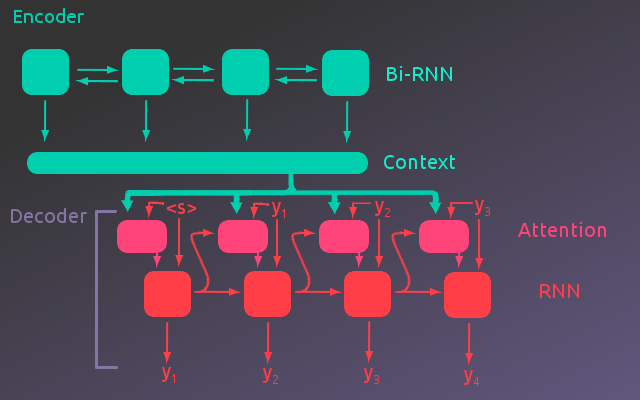
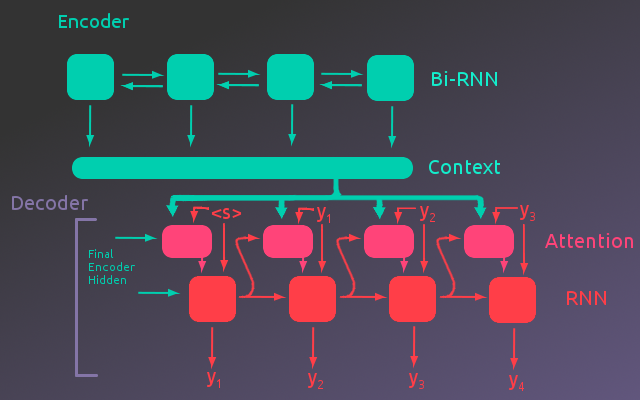
Added first draft of translation post

diff --git a/neural-translation-model.html b/neural-translation-model.html
@@ -38,7 +38,7 @@
     <a href="https://macbrennan90.github.io/category/projects.html" class="category">Projects</a><br />
 
     <a class="author" href="https://macbrennan90.github.io/author/mac-brennan.html">Mac Brennan</a>
-    &mdash; <abbr title="2018-04-25T00:00:00-05:00">Wed 25 April 2018</abbr>
+    &mdash; <abbr title="2018-06-11T00:00:00-05:00">Mon 11 June 2018</abbr>
 </div>        </div>
     </div>
 
@@ -56,11 +56,163 @@
     </div>
 
     <div class="entry-content">
-        <p>The goal of this project is to create a neural translation model that translates
-text from French to English. The model will be an encoder-decoder network with
-attention, using pre-trained word&nbsp;embeddings.</p>
-<p>This project is currently in progress, updates will be added as I go. If you are
-interested in seeing the current code, please check out the projects <a href="https://github.com/macbrennan90/translation-model" target="_blank">github repository</a>.</p>
+        <h2>Overview</h2>
+<p>In this post, I walk through how to build and train an neural translation model to translate French to English. This post will focus on the conceptual explanation, while a detailed walk through of the project code can be found in the associated Jupyter notebook. This notebook can be viewed <a href="https://nbviewer.jupyter.org/github/macbrennan90/translation-model/blob/master/translation-model.ipynb" target="_blank">here</a> or cloned from the project Github repository, <a href="https://github.com/macbrennan90/translation-model" target="_blank">here</a>. This post will be divided into two parts:
+<ol>
+    <li>A Conceptual Understanding of the&nbsp;Model</li>
+    <li>A Brief Summary of How the Model&nbsp;Performed</li>
+</ol></p>
+<p>This project closely follows the <a href="https://pytorch.org/tutorials/intermediate/seq2seq_translation_tutorial.html">PyTorch Sequence to Sequence tutorial</a>, while attempting to go more in depth with both the model implementation and the explanation. Thanks to <a href="https://github.com/spro/practical-pytorch">Sean Robertson</a> and <a href="https://pytorch.org/tutorials/">PyTorch</a> for providing such great&nbsp;tutorials.</p>
+<h2>Understanding the&nbsp;Model</h2>
+<p>We are trying to build a translation model. One model that has been successful in this task is an Encoder-Decoder network.
+At a high level, this model takes in a sequence and encodes the information of that sequence into an intermediate representation. This intermediate representation is decoded by the decoder into whatever target language the model has been trained for. In the case of this project, the input sequences are French sentences and the model has been trained to output the English translation of those&nbsp;sentences.</p>
+<p>Before we dive into the details of how the encoder and decoder work, we need to have an understanding of how our data will be represented to the model.
+Without knowing anything about how the model works, we can make the reasonable assumption that if we give the model a sentence in French, it should be able to provide us with the equivalent English sentence.
+So inputing one sequence of words should output another sequence of words. However, the model is just a collection of parameters that perform various computations on the input. The model does not know what words are.
+Similar to how letters have a <span class="caps">ASCII</span> mapping to numbers, our words need to be represented numerically. To do this, each unique word in the dataset needs a unique index. Rather than a sequence of words, the model will be given a sequence of&nbsp;indices.</p>
+<p>This works great for one sentence, but how can we pass the model multiple sentences to speed up the training process? Sentences are not all the same length. Additionally, how will these sequences of numbers be organized for the model? The answer is that the input sequences will be represented as a 2D tensor(matrix) with dimensions (batch size x max sequence length). This allows us to input a batch of sentences and sentences that have a length less than the longest sentence in the dataset can be padded using a pre-determined &#8220;padding index&#8221;. This is illustrated in the following&nbsp;figure.</p>
+<p style='text-align: center !important;'>
+<img src='https://github.com/macbrennan90/macbrennan90.github.io/blob/master/images/tm-input-tensor.png?raw=true'
+     alt='Input Tensor'>
+</p>
+
+<h3>Encoder</h3>
+<h4>Word&nbsp;Embeddings</h4>
+<p>The input tensor allows us to input several sentences to the model as a sequence of indices. This is a step in the right direction, but these indices don&#8217;t hold any information. They are just place holders that represent the words. The word represented by the index 54, is not necessarily related to the word represented by the index 55. It wouldn&#8217;t make sense to use these index numbers in a calculation. These indices need to be represented in some other format that allows the model to compute something&nbsp;meaningful.</p>
+<p>One way to do this is to &#8220;one hot encode&#8221; the words, meaning each word is represented by a vector of zeros except for a one at the index associated with the word. Each index in this vector would be associated with a unique word in the vocab. This would work, but it still lacks any sort of information about how words are related. A better way to represent words is to use word&nbsp;embeddings.</p>
+<p>Word embeddings represent each word as an N-dimensional vector. In this way, similar words would have similar word embeddings and would be located near each other in the N-dimensional space.
+To determine good values for the word embeddings a model is usually trained on some language task and the word embeddings are learned. Luckily, this has already been done by other researcher and those word embeddings have been made available. In this project, the 300-dimensional word embeddings from FastText are&nbsp;used.</p>
+<p>The indices can now be replaced by the word embeddings associated with each word. This step is included into the Encoder&#8217;s calculation giving a third dimension to the input tensor representing the word embeddings. An illustration of this embedded tensor is shown in the following&nbsp;figure.</p>
+<p style='text-align: center !important;'>
+<img src='https://github.com/macbrennan90/macbrennan90.github.io/blob/master/images/embedded-tensor.png?raw=true'
+     alt='Embedded Input Tensor'>
+</p>
+
+<h4>Encoder&nbsp;Architecture</h4>
+<p>As mentioned above, the embedding step is rolled into the Encoder calculation. This is done through an embedding layer. The following figure shows the full Encoder&nbsp;architecture.</p>
+<p style='text-align: center !important;'>
+<img src='https://github.com/macbrennan90/macbrennan90.github.io/blob/master/images/encoder-detailed.png?raw=true'
+     alt='Encoder Network'>
+</p>
+
+<p>As shown above, once the input tensor has passed through the embedding layer, the embedded input tensor is passed to a Bi-Directional <span class="caps">RNN</span> layer. A simple Encoder-Decoder network just uses a forward directional <span class="caps">RNN</span> for the encoder. However, this requires that items at the beginning of the sequence be encoded without any information about what is contained later in the sequence. A Bi-Directional <span class="caps">RNN</span> avoids this by stepping forward through the sequence as well as backward. As the <span class="caps">RNN</span> steps backward through the sequence it has already seen the full&nbsp;sequence.</p>
+<p>Taking the embedded input tensor, the <span class="caps">RNN</span> steps through each sequence item(word) in the sequence(sentence). At each iteration, an encoding vector with a length equal to the encoder hidden size is output. This is done in parallel for each example in the batch, for that sequence item. Although all the <span class="caps">RNN</span> steps are output as one final tensor, it is useful to think of the output at each step as a matrix(batch size X encoder vector&nbsp;size).</p>
+<p>At each step through the sequence, the <span class="caps">RNN</span>&#8217;s hidden state is passed to the next iteration of the <span class="caps">RNN</span> that takes in the next sequence item. This iteration also outputs an encoding vector for each example in the batch. This &#8220;matrix&#8221; is output at each step in the sequence and as the <span class="caps">RNN</span> steps backward through the sequence the output matrix is concatenated to the matrix at the same sequence step from the forward pass along the encoded vector dimension. This process is illustrated below. For this project, the <span class="caps">RNN</span> cell used 2 layers with one dropout layer between them. Additionally, two different types of <span class="caps">RNN</span>&#8217;s were compared, <span class="caps">LSTM</span>(Long Short Term Memory) and <span class="caps">GRU</span>(Gated Recurrent Unit)&nbsp;architectures.</p>
+<p style='text-align: center !important;'>
+<img src='https://github.com/macbrennan90/macbrennan90.github.io/blob/master/images/recurrent-unrolled.png?raw=true'
+     alt='Recurrent Layer Unrolled'>
+</p>
+
+<p>The final output of the <span class="caps">RNN</span> layer is a tensor where the &#8220;matrix&#8221; outputs of each recurrent step are stacked in the sequence dimension. The following figure shows this tensor in&nbsp;detail.</p>
+<p style='text-align: center !important;'>
+<img src='https://github.com/macbrennan90/macbrennan90.github.io/blob/master/images/encoder-output-tensor.png?raw=true'
+     alt='Encoder Output'>
+</p>
+
+<h3>Decoder</h3>
+<p>For a simple Encoder-Decoder network the final hidden state of the Encoder is passed to another <span class="caps">RNN</span>(The Decoder). Each output from this <span class="caps">RNN</span> is a word in the output sequence, which is fed as input to the next step of the <span class="caps">RNN</span>. However, this architecture requires that the entire input sequence be encoded into the final hidden state of the Encoder. By using an attentional model, the Decoder takes the final hidden state as well as the Encoder output at each step in the input sequence. The Decoder can then weight the values of the Encoder output that are important for the calculation at each iteration in the Decoder output&nbsp;sequence.</p>
+<p>Ultimately, the recurrent layer of the Decoder will take as input, the Encoder Output weighted by the attention module, as well as the predicted word index from the previous step of the recurrent cell. The following figure gives an illustration of this process, where the &#8220;Context&#8221; represents the Encoder output tensor.(Note that the embedding layers in both models were not included in the illustration to simplify the&nbsp;figure.)</p>
+<p style='text-align: center !important;'>
+<img src='https://github.com/macbrennan90/macbrennan90.github.io/blob/master/images/encoder-decoder.png?raw=true'
+     alt='Full Network'>
+</p>
+
+<p>So now let us take a closer look at how the attention module weights the Encoder&nbsp;output.</p>
+<h4>Attention</h4>
+<p>Referring back to the Encoder Output Tensor, each item in the sequence dimension holds a vector from the <span class="caps">RNN</span> output. This vector is associated with the word at that sequence step, in the input sentence. For each example in a batch, the attention module takes a weighted sum of these vectors across the sequence dimension. This produces one vector, for each example, that represents the relevant information needed for the calculation of the current output sequence&nbsp;step.</p>
+<p>To make this explanation a bit more concrete, let&#8217;s consider an example. If the first word of the input sentence was the most important piece of information for a given output word, then the weight associated with the first word would be one and all other weights would be zero. This would have the effect that the weighted vector would be equal to the vector associated with the first word from the input&nbsp;sentence.</p>
+<p>The model needs to learn how to determine these weights, so a fully connected layer is used to calculate them. There needs to be one weight per word in the sequence, so the number of nodes will equal the maximum sequence length. The weights should also sum to one, so the fully connected layer will use a softmax activation function. To determine these weights, the attention module will take as input, the concatenation of the previous hidden state of the Decoder and the word embeddings of the predicted words from the previous Decoder output step. The following figure illustrates this&nbsp;process.</p>
+<p style='text-align: center !important;'>
+<img src='https://github.com/macbrennan90/macbrennan90.github.io/blob/master/images/attn-weights.png?raw=true'
+     alt='Attention Weights'>
+</p>
+
+<p>Once the weights are calculated, a matrix multiplication of the weights and the Encoder output, by batch example, will give a weighted sum of the encoded vectors across the sequence. The matrix representing the Encoder output, by batch example, can be thought of as taking a horizontal slice of the Encoder Output Tensor. By writing out this multiplication by hand, you can see that each sequence weight is multiplied by the associated encoded vector and these are summed over the whole sequence to produce a single vector. The following figure illustrates this calculation for a single example. The actual calculation stacks each example in the batch to form a matrix with dimensions (batch size x 2*Encoder Hidden Size). This produces the Weighted Encoder&nbsp;Output.</p>
+<p style='text-align: center !important;'>
+<img src='https://github.com/macbrennan90/macbrennan90.github.io/blob/master/images/attn-output.png?raw=true'
+     alt='Attentional Weighted Encoder Output'>
+</p>
+
+<h4>Recurrent&nbsp;Calculation</h4>
+<p>Now that the Encoder Output has been weighted by the attention module, it is ready to be passed to the <span class="caps">RNN</span> layer of the Decoder. The <span class="caps">RNN</span> will also take in the word embeddings of the words predicted by the previous step of the Decoder. Rather than inputing the concatenation of these two matrices straight into the <span class="caps">RNN</span>, it will first pass through a fully connected layer with a ReLU activation. The output from this layer will then be the input to the <span class="caps">RNN</span>.</p>
+<p>The output from the <span class="caps">RNN</span> will go through a fully connected layer with a log softmax activation function where the number of nodes is equal to the number of words in the output language vocab. This represents the predictions for the next word in the output sequence. This word along with the hidden state of the <span class="caps">RNN</span> are passed to the next step of the attention module and <span class="caps">RNN</span>, where the next sequence item is calculated. The following figure illustrates this process. This is repeated until the entire output sequence has been&nbsp;output.</p>
+<p style='text-align: center !important;'>
+<img src='https://github.com/macbrennan90/macbrennan90.github.io/blob/master/images/decoder-detailed.png?raw=true'
+     alt='Recurrent Calculation for Decoder'>
+</p>
+
+<h3>Training the&nbsp;Model</h3>
+<p>Initially, the model is not very good at predicting the output sequence. It needs to be trained. To do this a loss is calculated and the error is back propagated through the model to update the model parameters. For this model, the loss is calculated by taking the Negative Log Likelihood Loss between the output predictions and the target translation word, summing over the sequence and averaging over the batch. This process is repeated for the entire dataset and for as many epochs of the dataset as needed to obtain the desired&nbsp;results.</p>
+<p>However, training a language model is slightly more complicated. Since the Decoder depends on predictions of the previous sequence items to predict later items, an error early in the sequence would throw that whole translation off. This makes it very hard for the model to learn. The solution to this problem is a technique called teacher forcing. The idea is that for some batches(usually half the time, selected at random), instead of passing the previous prediction of the decoder to the next sequence step, the previous target is used. When teaching forcing is used, the calculation of the decoder at each step uses the correct previous word. This technique makes training the model much&nbsp;easier.</p>
+<h2>Model&nbsp;Performance</h2>
+<p>The details of building and training this model can be found in the associated Jupyter notebook, which is linked at the beginning of the post. This section will provide a brief summary of how the model&nbsp;performed.</p>
+<h3>Datasets</h3>
+<p>Two datasets were used to test the model. The initial dataset used was relatively simple. It had a smaller vocab size and the sentence structure seemed to lack diversity. It did however, have the advantage of training relatively fast while testing out the model. After training on this dataset, a second, more diverse dataset was used. Although this dataset used shorter sentences, it had a much larger vocab size, as well as a much broader sentence&nbsp;structure.</p>
+<p><strong>Simple Dataset</strong><br>
+Number of examples:&nbsp;137861</p>
+<p>Number of unique French words: 356<br>
+Number of unique English words:&nbsp;228</p>
+<p>Longest French sentence: 23 words<br>
+Longest English sentence: 17&nbsp;words</p>
+<p>Examples:</p>
+<div class="highlight"><pre><span></span>French Sentence: paris est jamais agréable en décembre , et il est relaxant au mois d&#39; août .  
+English Sentence: paris is never nice during december , and it is relaxing in august .
+
+French Sentence: elle déteste les pommes , les citrons verts et les citrons .  
+English Sentence: she dislikes apples , limes , and lemons .
+
+French Sentence: la france est généralement calme en février , mais il est généralement chaud en avril .  
+English Sentence: france is usually quiet during february , but it is usually hot in april .
+
+French Sentence: la souris était mon animal préféré moins .  
+English Sentence: the mouse was my least favorite animal .
+
+French Sentence: paris est parfois clémentes en septembre , et il gèle habituellement en août .  
+English Sentence: paris is sometimes mild during september , and it is usually freezing in august .
+</pre></div>
+
+
+<p><strong>More Diverse Dataset</strong><br>
+Number of examples:&nbsp;139692</p>
+<p>Number of unique French words: 25809<br>
+Number of unique English words:&nbsp;12603</p>
+<p>Longest French sentence: 10 words<br>
+Longest English sentence: 10&nbsp;words</p>
+<p>Examples:</p>
+<div class="highlight"><pre><span></span>French Sentence: je vais laver les plats  
+English Sentence: ill wash dishes
+
+French Sentence: les nouvelles les rendirent heureux  
+English Sentence: the news made them happy
+
+French Sentence: globalement la conférence internationale fut un succès  
+English Sentence: all in all the international conference was a success
+
+French Sentence: comment marche cet appareil photo  
+English Sentence: how do you use this camera
+
+French Sentence: cest ton jour de chance  
+English Sentence: this is your lucky day
+</pre></div>
+
+
+<h3>Loss&nbsp;Plots</h3>
+<p>Two versions of the model were built, one using an <span class="caps">LSTM</span> cell for the <span class="caps">RNN</span> and one using a <span class="caps">GRU</span> cell for the <span class="caps">RNN</span>. These two versions of the model were trained on the two datasets. Their loss plots are shown&nbsp;below.</p>
+<p>Training Plot for Dataset&nbsp;1</p>
+<p>Training Plot for Dataset&nbsp;2</p>
+<p>Plots coming tomorrow, just waiting for a final training&nbsp;run!</p>
+<h3>Example Translations and Visualizing&nbsp;Attention</h3>
+<p>Coming Soon, finalizing the&nbsp;models!!</p>
+<p>Simple Dataset<br>
+<span class="caps">LSTM</span> with attention<br>
+3&nbsp;examples</p>
+<p><span class="caps">GRU</span> with attention<br>
+3&nbsp;examples</p>
+<p>More Diverse Dataset<br>
+<span class="caps">LSTM</span> with attention<br>
+3&nbsp;examples</p>
+<p><span class="caps">GRU</span> with attention<br>
+3&nbsp;examples</p>
     </div>
 
     <footer>
